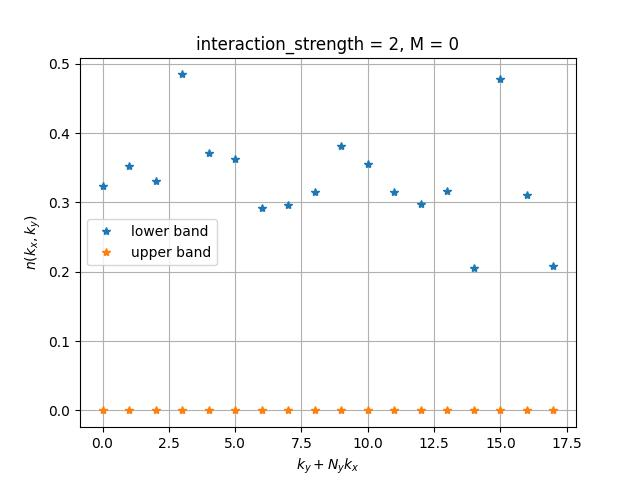
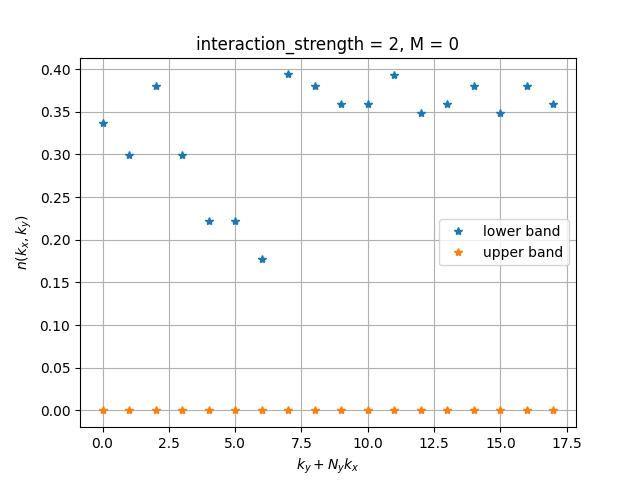
.

diff --git a/diagnolization_condor.py b/diagnolization_condor.py
@@ -49,7 +49,7 @@ if __name__ == "__main__":
     H = sparse.load_npz(str(f'data/matrix/spectral_flow/H_Nx-{Nx}_Ny-{Ny}_{matrix_index}.npz'))
     interaction = sparse.load_npz(str(f'data/matrix/interactions_Nx-{Nx}_Ny-{Ny}.npz'))
 
-    band_energy = 1
+    band_energy = 1e3
     interaction_strength = 2
     H = band_energy * (H + n * sparse.identity(n = np.shape(H)[0], format='csr'))  + interaction_strength * interaction
     #%%
